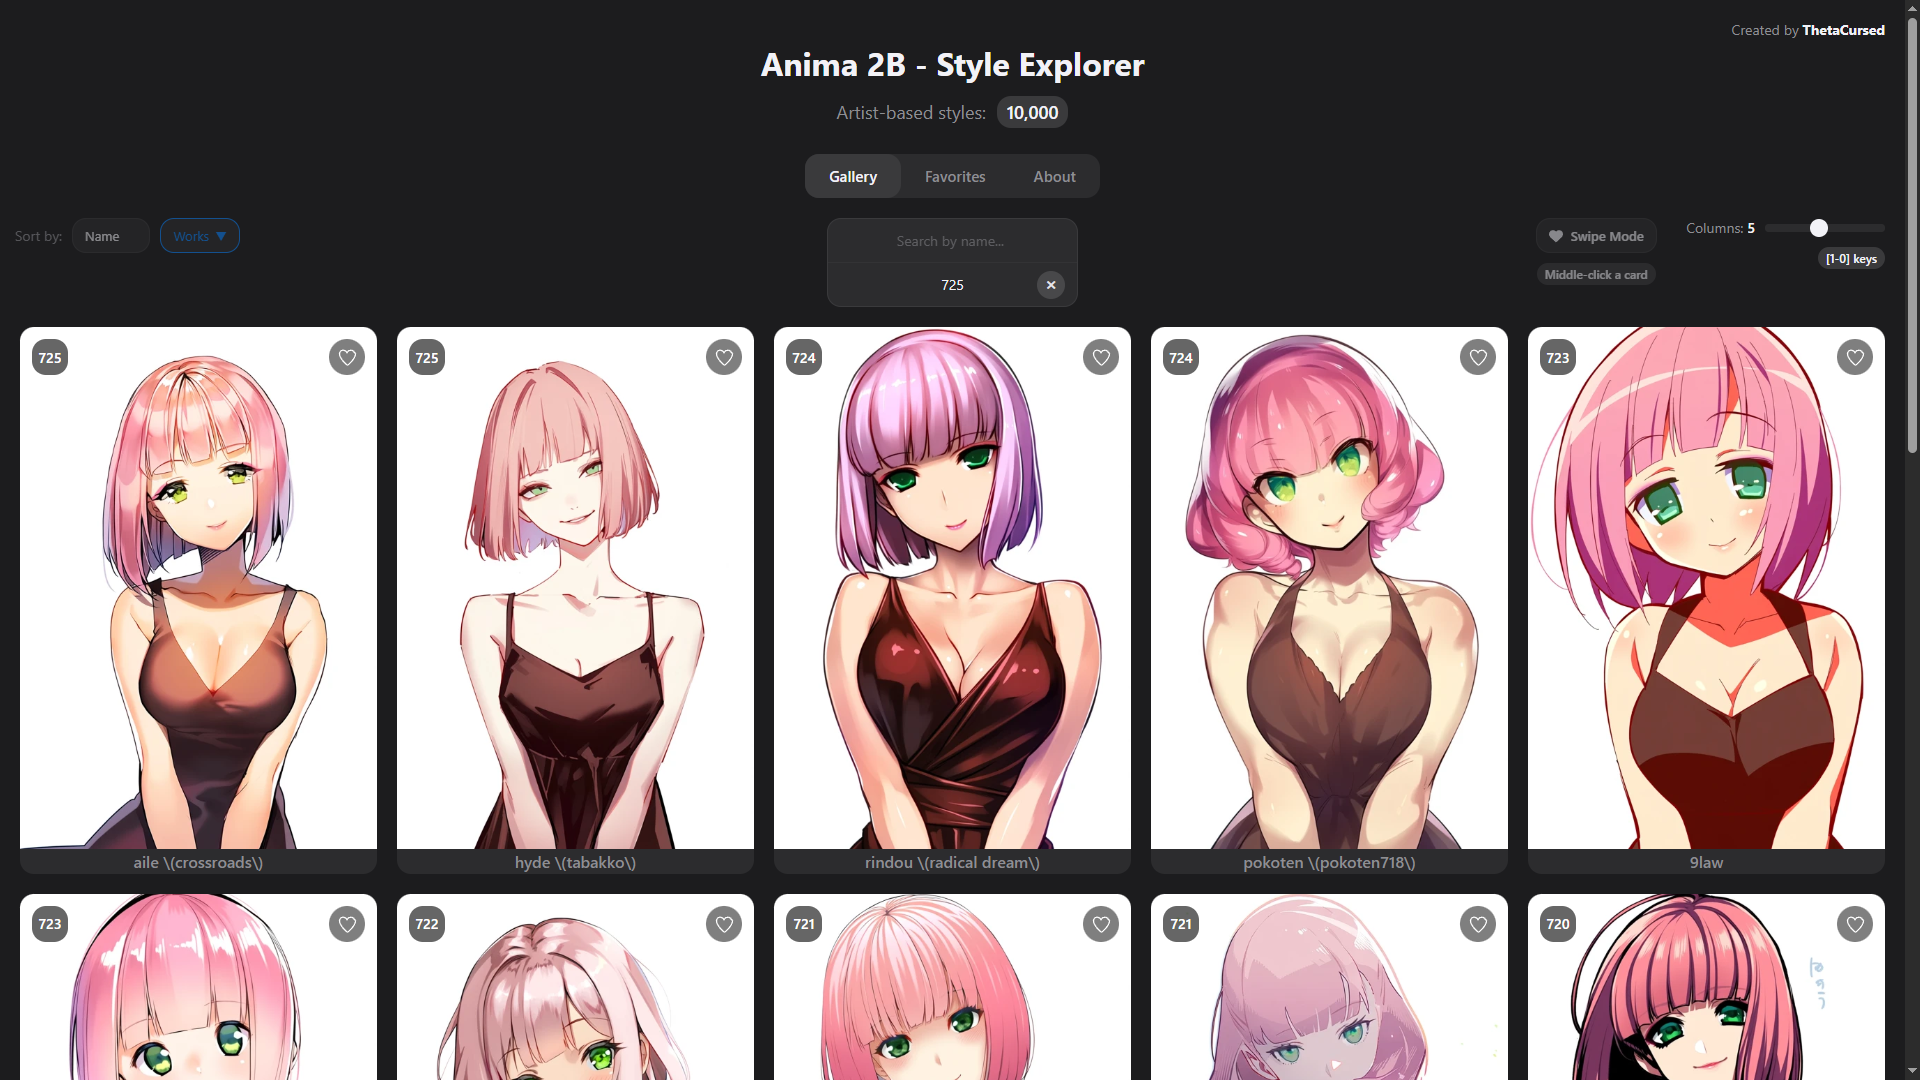
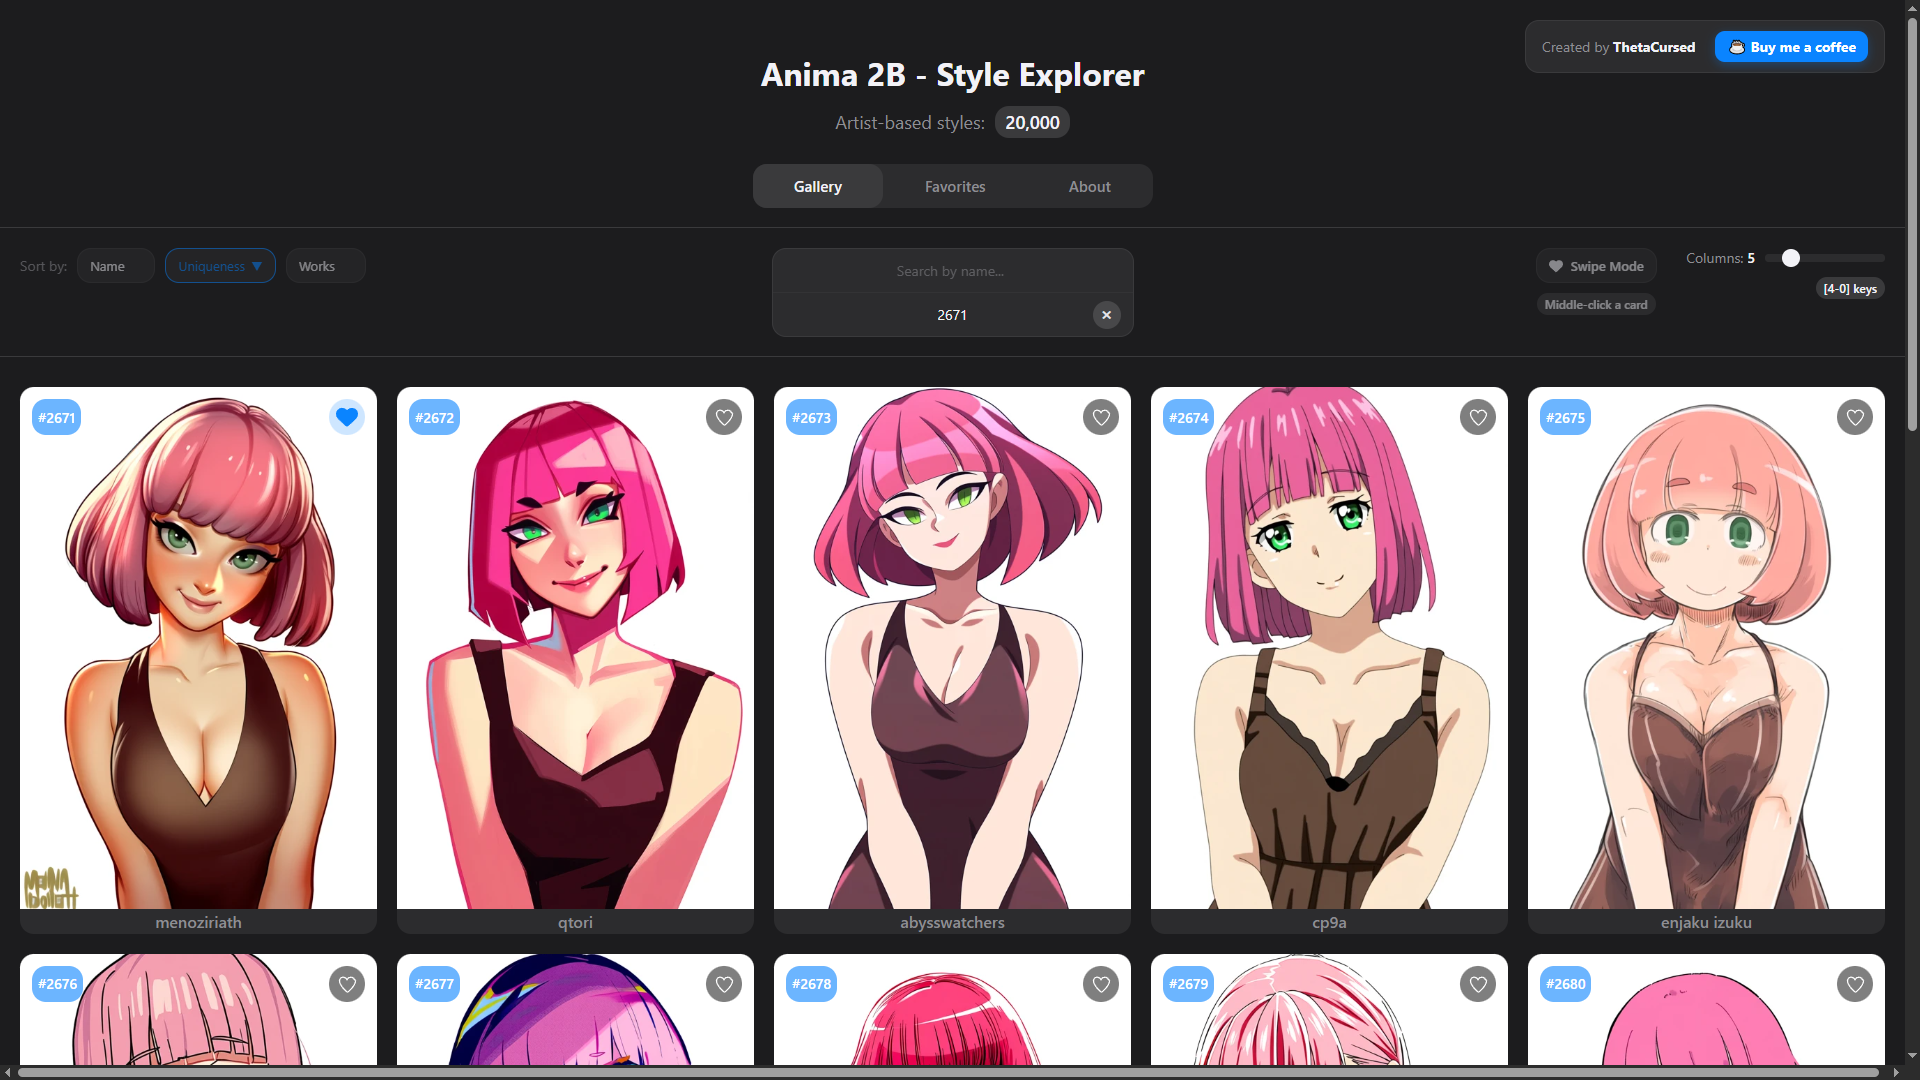
Auto-update

diff --git a/app/style.css b/app/style.css
@@ -715,8 +715,8 @@ input[type="range"]::-webkit-slider-thumb {
         text-align: center; /* Центрируем текст на мобильных */
     }
     .search-wrapper {
-        width: 90%; /* Делаем весь блок поиска на 20% уже родителя */
-        max-width: none; /* Убираем ограничение max-width на мобильных */
+        width: 90%; /* Задаем ширину в процентах для адаптивности */
+        max-width: 360px; /* Делаем блок поиска короче табов для иерархии на планшетах */
     }
     .search-input-container { width: 100%; } /* Поле поиска занимает всю ширину своего нового родителя */
     .jump-controls {
@@ -860,9 +860,9 @@ input[type="range"]::-webkit-slider-thumb {
     right: 20px;
     display: flex;
     align-items: center; /* Выравниваем по вертикали */
-    gap: 15px; /* Добавляем отступ между элементами */
+    gap: 20px; /* Добавляем отступ между элементами */
     background-color: var(--card-background);
-    padding: 8px 12px;
+    padding: 10px 16px;
     border-radius: var(--global-border-radius);
     border: 1px solid var(--border-color);
     z-index: 10;
@@ -914,12 +914,11 @@ input[type="range"]::-webkit-slider-thumb {
     .top-info-container {
         position: static; /* Возвращаем в поток документа */
         margin: 0 auto 20px; /* Центрируем и добавляем отступ снизу */
-        width: 60%; /* Растягиваем на всю ширину родителя */
-        height: 80px;
+        width: fit-content; /* Ширина по содержимому */
         max-width: 400px; /* Ограничиваем максимальную ширину, как у других элементов */
         flex-direction: column; /* Элементы друг под другом для мобильных */
         gap: 8px; /* Уменьшаем отступ между строками */
-        padding: 6px 10px; /* Делаем контейнер чуть меньше */
+        padding: 10px 15px; /* Немного увеличим отступы для лучшего вида */
     }
     .page-title-container {
         padding-top: 0; /* Убираем отступ на мобильных */

diff --git a/index.html b/index.html
@@ -15,7 +15,7 @@
     <title>Anima 2B Style Explorer - Visual Artist Guide for AI</title>
     <meta name="description" content="Visual database of over 20,000 artist styles for the Anima 2B model. Compare Danbooru artists and copy optimized prompts.">
     <meta name="keywords" content="Anima 2B, Anima AI, Stable Diffusion, Artist Styles, Danbooru Tags, AI Art Library">
-    <link rel="stylesheet" href="app/style.css?v=18">
+    <link rel="stylesheet" href="app/style.css?v=19">
     <script type="application/ld+json">
     {
       "@context": "https://schema.org",
@@ -150,8 +150,8 @@
         <div class="swipe-hint">Use <kbd>←</kbd> <kbd>→</kbd> to navigate, <kbd>C</kbd> to copy name, <kbd>↓</kbd> to favorite, <kbd>Esc</kbd> to close</div>
     </div>
 
-    <script src="app/data.js?v=18"></script>
-    <script src="app/app.js?v=18"></script>
-    <script src="app/swipe-mode.js?v=18"></script>
+    <script src="app/data.js?v=19"></script>
+    <script src="app/app.js?v=19"></script>
+    <script src="app/swipe-mode.js?v=19"></script>
 </body>
 </html>
